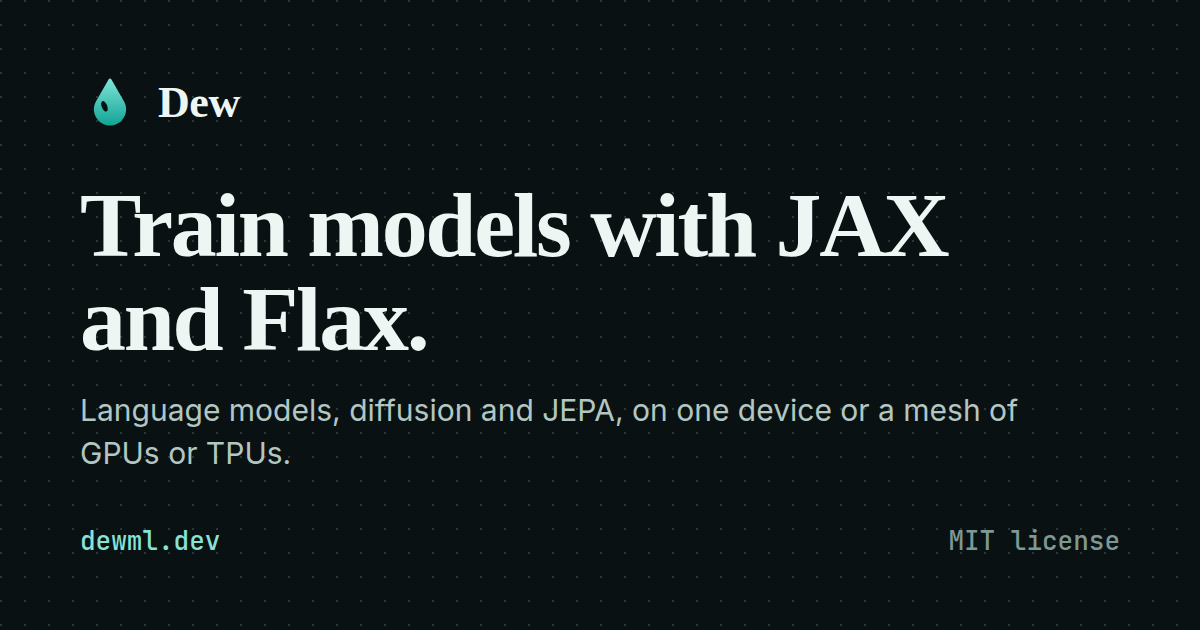
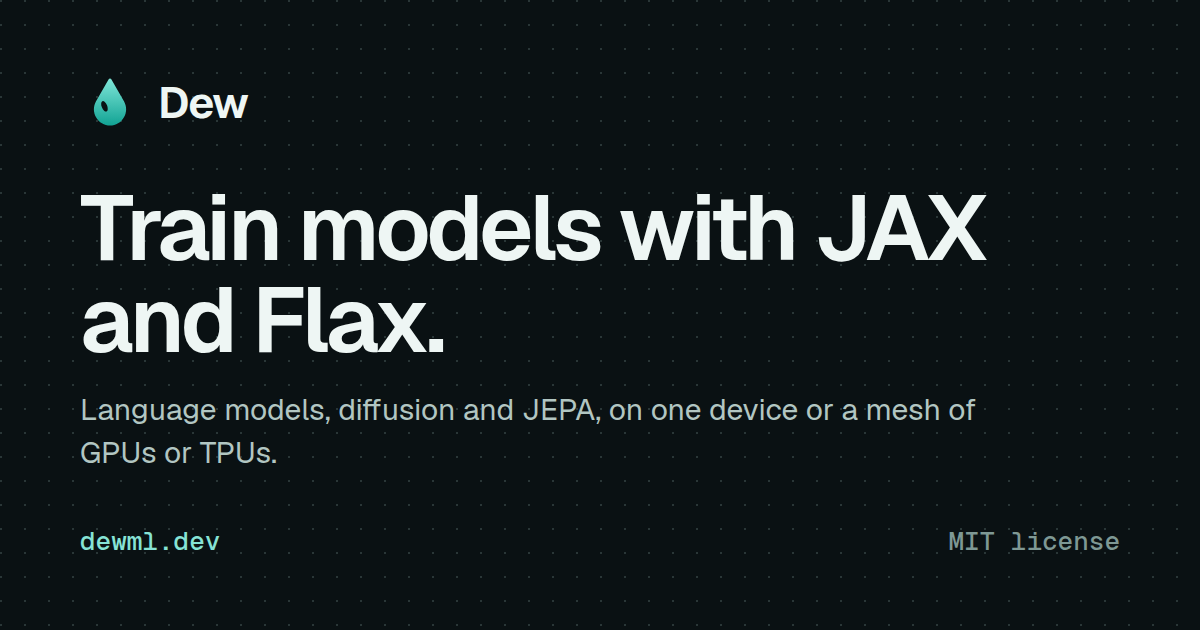
fix(site): the social preview image is set in Geist, and the serif package is gone
og.png still used Source Serif 4, which nothing else on the site uses
now; it is captured again from og-image.html in Geist and Geist Mono,
and @fontsource-variable/source-serif-4 is removed.

diff --git a/site/scripts/og-image.html b/site/scripts/og-image.html
@@ -4,9 +4,8 @@
 <head>
 <meta charset="utf-8">
 <style>
-	@font-face { font-family: Serif; src: url('../node_modules/@fontsource-variable/source-serif-4/files/source-serif-4-latin-opsz-normal.woff2'); font-weight: 200 900; }
-	@font-face { font-family: Sans; src: url('../node_modules/@fontsource-variable/inter/files/inter-latin-wght-normal.woff2'); font-weight: 100 900; }
-	@font-face { font-family: Mono; src: url('../node_modules/@fontsource-variable/jetbrains-mono/files/jetbrains-mono-latin-wght-normal.woff2'); font-weight: 100 800; }
+	@font-face { font-family: Sans; src: url('../node_modules/@fontsource-variable/geist/files/geist-latin-wght-normal.woff2'); font-weight: 100 900; }
+	@font-face { font-family: Mono; src: url('../node_modules/@fontsource-variable/geist-mono/files/geist-mono-latin-wght-normal.woff2'); font-weight: 100 900; }
 	html, body { margin: 0; width: 1200px; height: 630px; }
 	body {
 		background: #0a1113;
@@ -20,9 +19,9 @@
 		padding: 72px 80px;
 		box-sizing: border-box;
 	}
-	.brand { display: flex; align-items: center; gap: 18px; font: 600 44px Serif, serif; letter-spacing: -0.01em; }
+	.brand { display: flex; align-items: center; gap: 18px; font: 640 44px Sans, sans-serif; letter-spacing: -0.03em; }
 	.brand img { width: 60px; height: 60px; }
-	h1 { font: 600 92px/1.02 Serif, serif; letter-spacing: -0.025em; margin: 0; max-width: 980px; }
+	h1 { font: 620 92px/1 Sans, sans-serif; letter-spacing: -0.04em; margin: 0; max-width: 980px; }
 	p { font-size: 30px; line-height: 1.45; color: #b2c6c2; margin: 22px 0 0; max-width: 960px; }
 	.foot { display: flex; justify-content: space-between; align-items: baseline; font: 500 26px Mono, monospace; color: #86e3d5; }
 	.foot span:last-child { color: #7e9894; }
